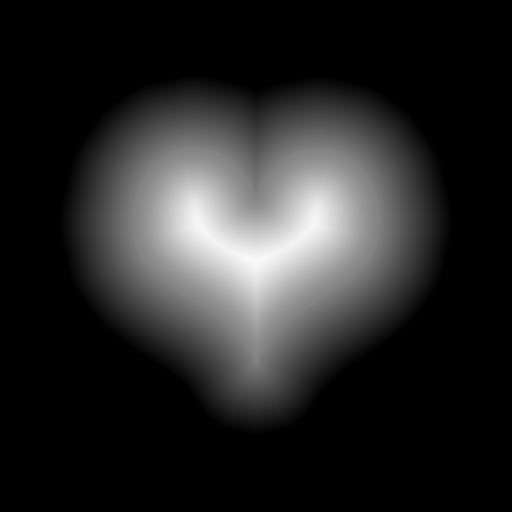
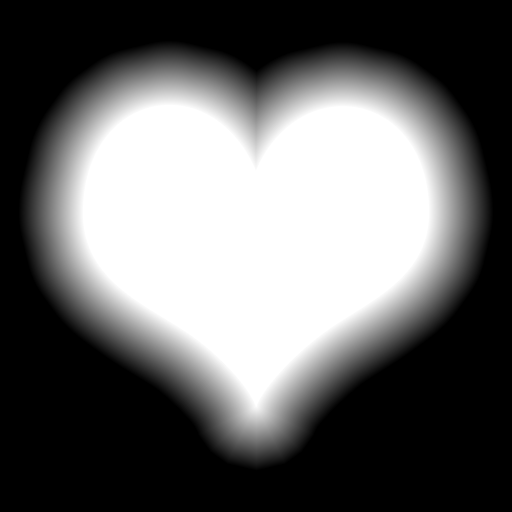
Artificer

diff --git a/GooeyViews/ViewController.swift b/GooeyViews/ViewController.swift
@@ -25,9 +25,10 @@ class ViewController: UIViewController {
     var displayPipelineState: MTLRenderPipelineState!
     var thresholdPipelineState: MTLComputePipelineState!
     
-    var colorTexture: MTLTexture!
+    var leatherTexture: MTLTexture!
+    var concreteTexture: MTLTexture!
     var heartTexture: MTLTexture!
-    var splatTexture: MTLTexture!
+    var arrowTexture: MTLTexture!
     
     var blendedTexture: MTLTexture!
     var accumulatedWeightTexture: MTLTexture!
@@ -88,12 +89,22 @@ class ViewController: UIViewController {
         do {
             let textureFactory = TextureFactory(device: device)
             
-            heartTexture = textureFactory.createTexture(filename: "arrow", render: false, read: true, write: false)
-            splatTexture = textureFactory.createTexture(filename: "heart", render: false, read: true, write: false)
-            colorTexture = textureFactory.createTexture(filename: "test", render: false, read: true, write: false)
+            heartTexture = textureFactory.createTexture(filename: "heart", render: false, read: true, write: false)
+            arrowTexture = textureFactory.createTexture(filename: "arrow", render: false, read: true, write: false)
+            concreteTexture = textureFactory.createTexture(filename: "concrete", render: false, read: true, write: false)
+            leatherTexture = textureFactory.createTexture(filename: "leather", render: false, read: true, write: false)
+            
+            // Input Color: 4 Channel, Normalized
+            // Input Distance: 1 Channel, Normalized
+            
+            // Accumulated Weight: 1 Channel, Float
+            // Color: 4 Channel, Normalized
+            // Distance: 1 Channel, Normalized
+            
+            // Threshold Target: 4 Channel, Normalized
             
             blendedTexture = textureFactory.createEmptyFloatTexture(width: screenSize.width, height: screenSize.height, render: true, read: true, write: false)
-            accumulatedWeightTexture = textureFactory.createEmptyFloatTexture(width: screenSize.width, height: screenSize.height, render: true, read: true, write: false)
+            accumulatedWeightTexture = textureFactory.createEmptySingleChannelFloatTexture(width: screenSize.width, height: screenSize.height, render: true, read: true, write: false)
             thresholdedTexture = textureFactory.createEmptyFloatTexture(width: screenSize.width, height: screenSize.height, render: false, read: true, write: true)
         }
         
@@ -116,7 +127,7 @@ class ViewController: UIViewController {
             descriptor.vertexFunction = vertexBlend
             descriptor.fragmentFunction = fragmentBlend
             descriptor.colorAttachments[0].pixelFormat = .RGBA16Float
-            descriptor.colorAttachments[1].pixelFormat = .RGBA16Float
+            descriptor.colorAttachments[1].pixelFormat = .R16Float
             
             return try! device.newRenderPipelineStateWithDescriptor(descriptor)
         }()
@@ -210,7 +221,7 @@ class ViewController: UIViewController {
     func step() {
     
         let time = NSDate().timeIntervalSince1970
-        let speed = time / 1.0
+        let speed = time / 2.0
         let second = fmod(speed, 1.0)
         let piFactor = M_PI * 2 * second
         let wave = CGFloat(sin(piFactor))
@@ -221,7 +232,7 @@ class ViewController: UIViewController {
             let translate = CATransform3DMakeTranslation(-0.35 + 0.15 * wave, 0, 0)
             let transform = CATransform3DConcat(scale, translate)
             
-            renderView(transform: transform, distanceMap: heartTexture, colorMap: colorTexture, first: true)
+            renderView(transform: transform, distanceMap: arrowTexture, colorMap: concreteTexture, first: true)
         }
         
         do {
@@ -231,7 +242,7 @@ class ViewController: UIViewController {
             let translate = CATransform3DMakeTranslation(0.3, 0, 0)
             let transform = CATransform3DConcat(scale, translate)
             
-            renderView(transform: transform, distanceMap: splatTexture, colorMap: colorTexture, first: false)
+            renderView(transform: transform, distanceMap: heartTexture, colorMap: leatherTexture, first: false)
         }
         // -----
         

diff --git a/GooeyViews/TextureFactory.swift b/GooeyViews/TextureFactory.swift
@@ -30,6 +30,15 @@ class TextureFactory {
         return texture
     }
     
+    func createEmptySingleChannelFloatTexture(width width: Int, height: Int, render: Bool, read: Bool, write: Bool) -> MTLTexture {
+        let textureDescriptor = MTLTextureDescriptor.texture2DDescriptorWithPixelFormat(MTLPixelFormat.R16Float, width: width, height: height, mipmapped: false)
+        textureDescriptor.usage = createUsage(render: render, read: read, write: write)
+        
+        let texture = device.newTextureWithDescriptor(textureDescriptor)
+        
+        return texture
+    }
+    
     func createEmptyTexture(width width: Int, height: Int, render: Bool, read: Bool, write: Bool) -> MTLTexture {
         let textureDescriptor = MTLTextureDescriptor.texture2DDescriptorWithPixelFormat(MTLPixelFormat.RGBA8Unorm, width: width, height: height, mipmapped: false)
         textureDescriptor.usage = createUsage(render: render, read: read, write: write)
